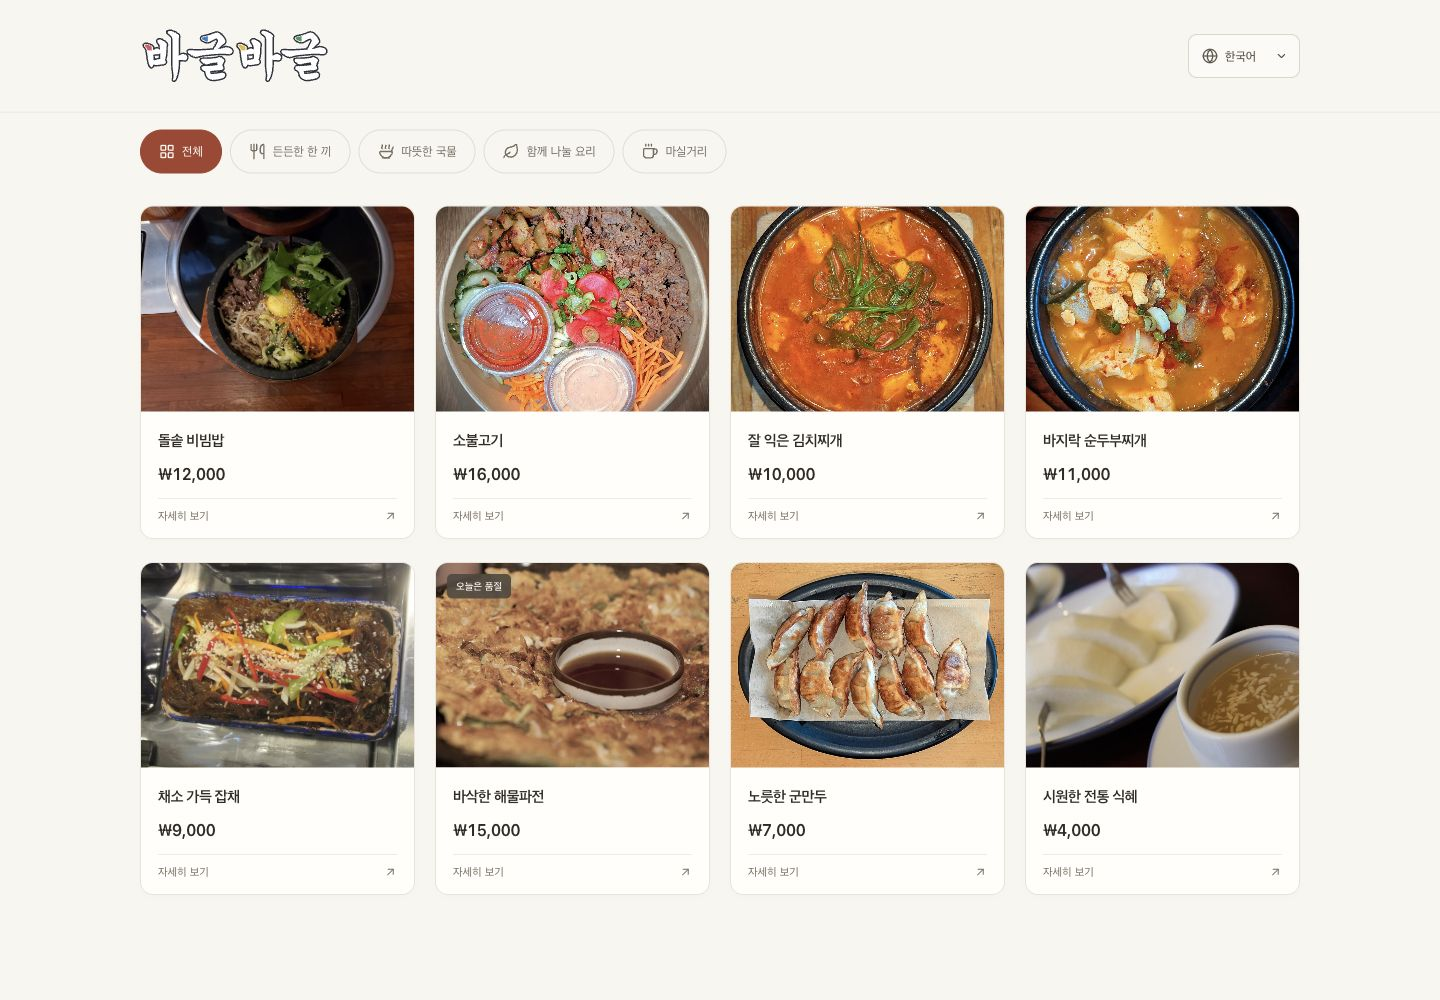
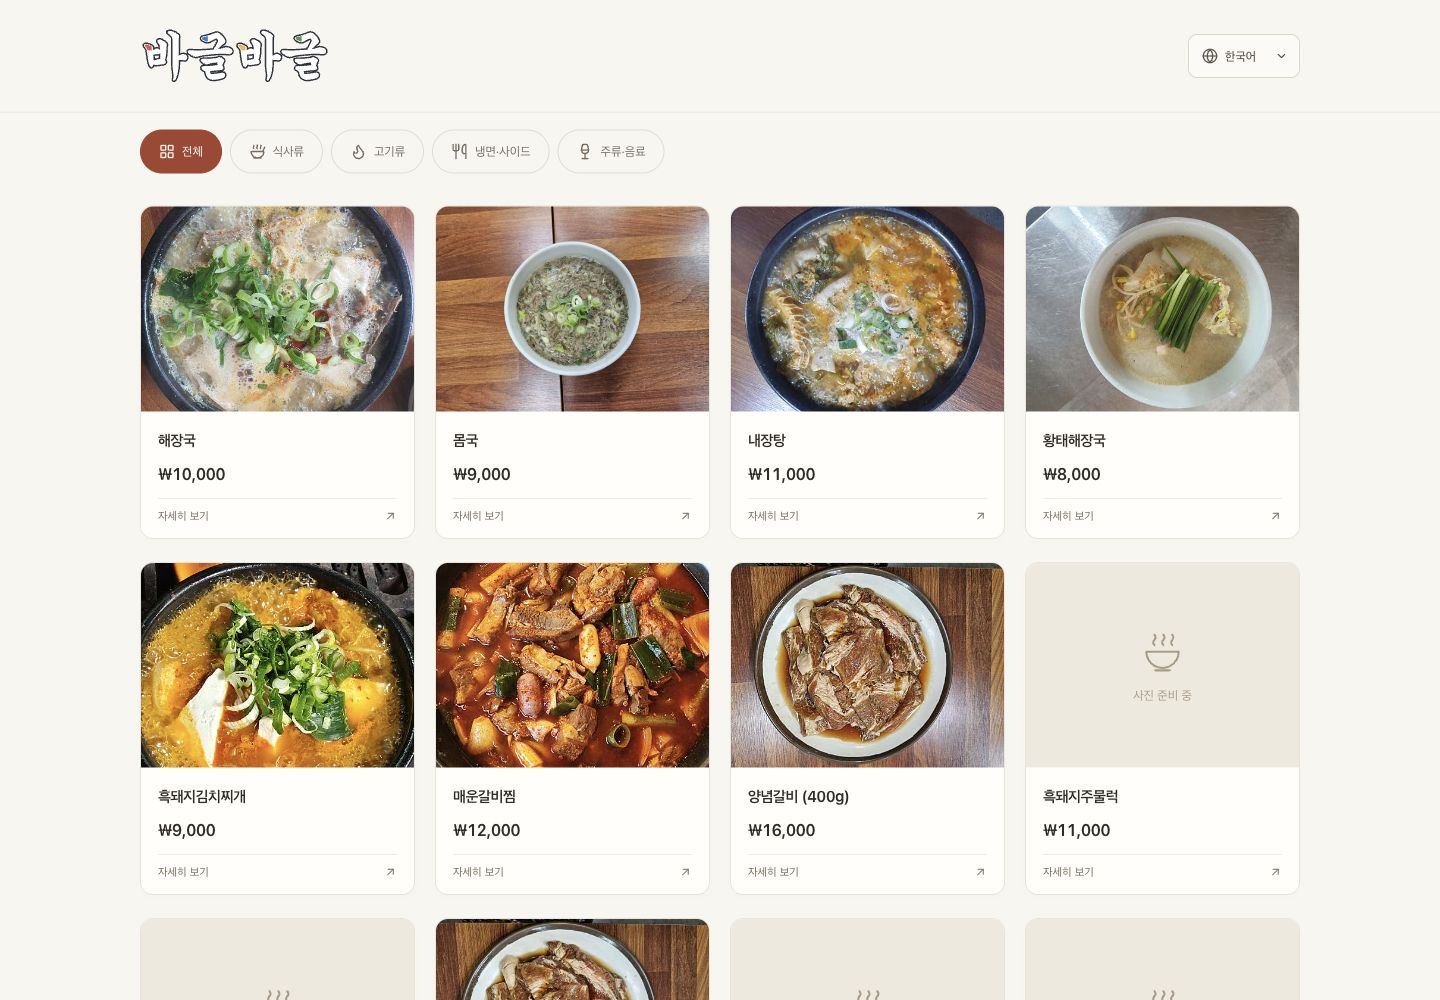
docs: update real-menu setup guide and preview screenshots

diff --git a/README.md b/README.md
@@ -2,13 +2,13 @@
 
 테이블에서 QR을 찍어 사진과 함께 메뉴를 읽는 모바일 중심 웹 메뉴판입니다. 한국어·영어·중국어 간체·중국어 번체를 지원합니다.
 
-현재는 **목업 데이터로 디자인과 탐색 흐름을 확인하는 손님용 프론트엔드**입니다. 로그인 없이 실행할 수 있고, Supabase 프로젝트나 환경 변수 없이도 동작합니다.
+현재는 **공개된 실제 매장 메뉴를 정적 데이터로 제공하는 손님용 프론트엔드**입니다. 2026-10-24에 확인한 네이버 주문의 매장 가격을 사용하며, 실시간 가격·품절 연동은 하지 않습니다. 로그인 없이 실행할 수 있고, Supabase 프로젝트나 환경 변수 없이도 동작합니다.
 
 ## 구현한 기능
 
 - 상호·언어 선택 → 가로 스크롤 카테고리 → 음식 카드로 이어지는 간결한 화면 (구분선은 카테고리 위에 배치)
-- 사진·메뉴명·가격을 보여주는 메뉴 카드 8개
-- 전체 / 한 끼 / 국물 / 나눔 요리 / 마실거리 카테고리 탐색
+- 사진·메뉴명·가격을 보여주는 실제 메뉴 카드 19개
+- 전체 / 식사류 / 고기류 / 냉면·사이드 / 주류·음료 카테고리 탐색
 - 사진·설명·원산지·알레르기 정보를 보여주는 상세 모달
 - 품절 메뉴 표시와 품절 메뉴의 상세 조회
 - 네 언어 선택, URL·기기 저장값·브라우저 언어에 따른 초기 언어 설정
@@ -17,7 +17,7 @@
 - 뒤로가기·닫기·Escape로 상세 닫기, 목록 위치와 초점 복원
 - 로딩·빈 목록·조회 실패·재시도·이미지 실패 상태
 
-메뉴·사진·가격·번역·원산지·알레르기 정보는 모두 디자인 확인용 샘플입니다. 실제 매장의 정보나 검수한 식품 정보를 뜻하지 않습니다. 주문·장바구니·결제·ASK·분석 도구·관리자 화면·실제 API 연결은 이 프론트 초안에 포함하지 않습니다.
+대상 매장은 **바글바글해장국몸국(제주 제주시 우정로5길 10)**입니다. 메뉴·가격·등록 사진은 공개 매장 자료를 반영했고, 네 언어 번역과 짧은 설명은 이 프로젝트에서 작성했습니다. 알레르기는 모두 미검수 상태입니다. [자료 출처·가격 비교·반영 기준](docs/RESTAURANT_DATA.md)에 결정 사항과 근거를 기록했습니다. 주문·장바구니·결제·ASK·분석 도구·관리자 화면·실제 API 연결은 이 프론트 초안에 포함하지 않습니다.
 
 상호는 **바글바글**이며, 헤더 로고는 [조선일보 공식 배포 조선궁서체](https://event.chosun.com/100/100font.html)를 사용했습니다. 궁서체 획을 살짝 두껍게 하고 흰색 채움·짙은 테두리·글자 끝의 빨강/파랑/노랑/초록 포인트를 적용했습니다. 네 글자의 윤곽을 SVG로 출력해 별도 웹폰트 다운로드 없이 모든 기기에서 같은 궁서체가 보입니다. 글꼴의 지적재산권은 (주)조선일보사에 있습니다. 원본 글꼴 파일은 저장소에 포함하지 않습니다. 로고는 `src/components/BrandWordmark.tsx`에서 수정합니다.
 
@@ -73,7 +73,7 @@ npm run dev
 src/
 ├── components/     메뉴 카드, 사진, 상세 모달, 언어 선택
 ├── data/
-│   ├── fixtures.ts          DB 컬럼 형태의 목업 행
+│   ├── restaurantMenu.ts    DB 컬럼 형태의 실제 매장 메뉴
 │   ├── mapper.ts            DB 행 → 화면용 모델
 │   └── menuRepository.ts    조회 구현과 교체 지점
 ├── domain/menu.ts  데이터 모델과 MenuRepository 계약
@@ -83,7 +83,7 @@ src/
 └── styles.css      반응형 스타일
 
 public/
-├── images/         최적화한 샘플 음식 사진
+├── images/         등록 메뉴 사진
 ├── photo-credits.html
 └── photo-credits.json
 ```
@@ -97,7 +97,7 @@ MenuRepository.getCatalog(signal)
   → 카드와 상세 모달
 ```
 
-컴포넌트는 목업 파일이나 Supabase SDK에 직접 접근하지 않습니다. 목업도 비동기 조회와 `AbortSignal`을 지원하고, 매번 독립된 데이터 사본을 반환합니다. 탭이 다시 활성화되면 데이터를 재조회합니다.
+컴포넌트는 정적 메뉴 파일이나 Supabase SDK에 직접 접근하지 않습니다. 정적 메뉴 조회도 비동기 계약과 `AbortSignal`을 지원하고, 매번 독립된 데이터 사본을 반환합니다. 탭이 다시 활성화되면 데이터를 재조회합니다.
 
 `mapCatalog()`는 숨김 메뉴와 공개 메뉴가 없는 카테고리를 제외하고, 카테고리·메뉴 순서를 적용합니다. 품절 메뉴는 유지합니다. 카테고리 누락·잘못된 가격·필수 번역 누락은 빈 메뉴나 조용한 번역 대체로 처리하지 않고 조회 실패로 전달합니다. **클라이언트의 숨김 제외 처리는 서버 RLS를 대체하지 않습니다.**
 
@@ -115,10 +115,10 @@ MenuRepository.getCatalog(signal)
 
 실제 연결에는 브라우저용 publishable key와 공개 조회 RLS를 사용합니다. service role·secret key·DB 비밀번호는 브라우저 코드나 `VITE_` 환경 변수에 넣지 않습니다. 이 저장소는 Supabase 자격 증명을 포함하지 않고 DB를 수정하지 않습니다.
 
-## 목업 수정하기
+## 정적 메뉴 수정하기
 
 - 상호와 공통 문구: `src/i18n/copy.ts`
-- 메뉴·가격·카테고리·품절 상태·번역: `src/data/fixtures.ts`
+- 메뉴·가격·카테고리·품절 상태·번역: `src/data/restaurantMenu.ts`
 - 사진: `public/images/`와 각 행의 `image_path`
 - 색상·서체·여백: `src/styles.css`
 
@@ -137,10 +137,10 @@ MenuRepository.getCatalog(signal)
 
 검증 환경은 Node.js 26.3.1과 Chromium 기반 브라우저입니다. 320·390·768·1440px × 네 언어의 16개 조합에서 가로 넘침 없이 표시되는 것을 확인했습니다. 실제 iPhone Safari·Android 실기기 검증과 실제 API 연동 테스트는 수행하지 않았습니다.
 
-`npm test`는 URL·저장값·브라우저 언어 우선순위, 중국어 스크립트 구분, 가격 표시, 숨김·품절 처리, 이미지 경로 변환, 잘못된 데이터 거부, 요청 취소와 독립된 목업 사본을 검증합니다.
+`npm test`는 URL·저장값·브라우저 언어 우선순위, 중국어 스크립트 구분, 가격 표시, 숨김·품절 처리, 이미지 경로 변환, 잘못된 데이터 거부, 요청 취소와 독립된 메뉴 사본을 검증합니다.
 
-브라우저 검증은 반응형 레이아웃·이미지 로딩·카테고리 전환·네 언어·모달 닫기와 뒤로가기·선택 언어 유지·초점 복원을 대상으로 합니다. 테스트 코드와 목업은 실제 Supabase·Storage·Auth에 연결하지 않습니다.
+브라우저 검증은 반응형 레이아웃·이미지 로딩·카테고리 전환·네 언어·모달 닫기와 뒤로가기·선택 언어 유지·초점 복원을 대상으로 합니다. 테스트 코드와 정적 메뉴는 실제 Supabase·Storage·Auth에 연결하지 않습니다.
 
 ## 사진 출처
 
-샘플 음식 사진은 Wikimedia Commons에서 가져와 크기를 줄이고 JPEG로 압축했습니다. 화면에서는 비율에 맞춰 잘라 표시합니다. 사진별 저작자·원본·라이선스·변경 사항은 [사진 출처 정리](docs/PHOTO_CREDITS.md)와 [출처 데이터](public/photo-credits.json)에 기록되어 있습니다. 각 사진의 원래 라이선스가 적용됩니다.
+네이버 주문에 등록된 메뉴 사진 7개와 네이버 플레이스에 연결된 배민 몸국 사진 1개를 사용합니다. 배포 서버의 상세 메뉴용 이미지 또는 원본 JPEG를 저장하고 화면 비율에 맞춰 표시합니다. 총 8개 파일은 약 591KiB이며, 사진이 없는 11개 메뉴는 준비 중 상태로 표시합니다. 사진별 등록 페이지·원본·처리 방식은 [사진 출처 정리](docs/PHOTO_CREDITS.md)와 [출처 데이터](public/photo-credits.json)에 기록했습니다. 방문자 리뷰 사진과 배민 공용 이미지 라이브러리는 사용하지 않습니다.
